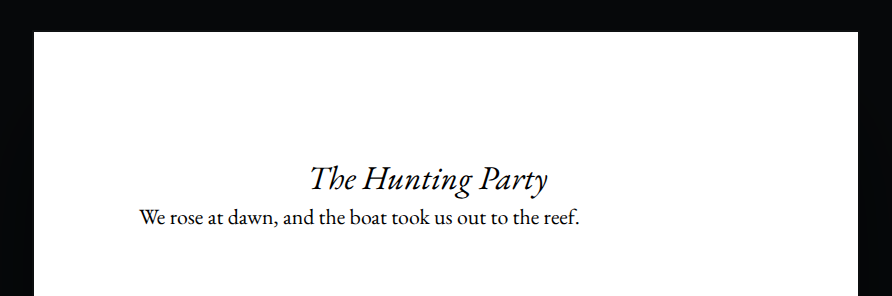
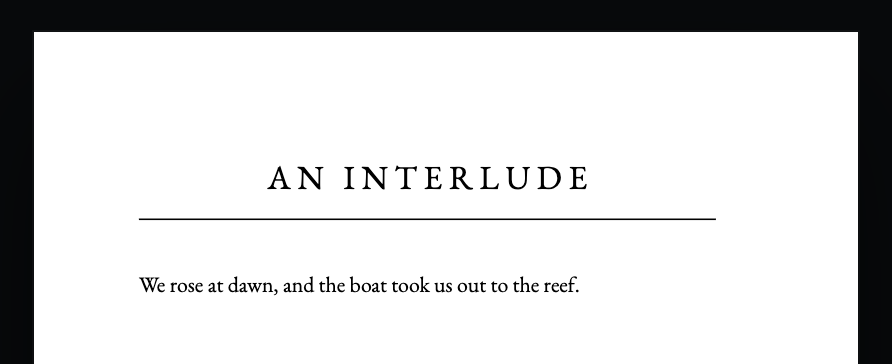
Rewrite the Markdown page in plain words
Each example now does what plain Markdown cannot: a ruled heading,
text that wraps around the shell, and small capitals. The breaks are
shown as written, with no picture.

Claude-Session: https://claude.ai/code/session_01PPTVmjWYWe5YnWoj3FHzSy

diff --git a/e2e/shots.spec.ts b/e2e/shots.spec.ts
@@ -1206,19 +1206,17 @@ test("the book note picture is the sample book's note open as its page", async (
 /** The folder the Markdown page's examples are written in, as a note and its CSS. */
 const EXAMPLES = path.resolve(fileURLToPath(import.meta.url), "../../site/src/marks");
 
-/**
- * Each example the Markdown page shows, by the words each page of its
- * picture opens on. The page break is the one example set on two pages.
- */
-const SET_ON: Record<string, string[]> = {
-  "attribute-line": ["This morning"],
-  "heading-attributes": ["The Hunting Party"],
-  "image-attributes": ["The Nautilus, as"],
-  span: ["We were on board"],
-  "setext-heading": ["The Coral Kingdom"],
-  "page-break": ["The night fell", "At dawn"],
-  "column-break": ["Above the waterline"],
+/** Each example the Markdown page pictures, by the words its page opens on. */
+const SET_ON: Record<string, string> = {
+  "attribute-line": "This morning",
+  "heading-attributes": "An Interlude",
+  "image-attributes": "The shell of",
+  span: "The Nautilus lay",
+  "setext-heading": "The Coral Kingdom",
 };
+
+/** The examples the page shows as written only, since a break is plainer said than pictured. */
+const UNPICTURED = ["column-break", "page-break"];
 
 /** The folder the examples and the books that set them go into. */
 const MARKED = "Marks";
@@ -1230,8 +1228,8 @@ function markedAt(name: string): string {
 
 /**
  * The example books' design, which is the sample book's text with no
- * heads. A title page comes first, so the chapter opens on a left-hand
- * page and a page break lands on the page facing it.
+ * heads. A title page comes first, so the book has a page before the
+ * chapter to turn from.
  */
 const MARKED_DESIGN = [
   "orca-book: 1",
@@ -1310,9 +1308,9 @@ test("the Markdown pictures are each example set on its own page", async ({ site
         : undefined,
     })),
   );
-  // Every example the page can show has a picture.
+  // Every example the page shows has a picture, or is said to have none.
   expect(written.filter((file) => file.endsWith(".md")).sort()).toEqual(
-    Object.keys(SET_ON).map((name) => `${name}.md`).sort(),
+    [...Object.keys(SET_ON), ...UNPICTURED].map((name) => `${name}.md`).sort(),
   );
 
   // A preview does not follow a book note written from outside the
@@ -1346,12 +1344,12 @@ test("the Markdown pictures are each example set on its own page", async ({ site
     await site.obsidian.collapse("right");
     await site.book.show("Spread", "spread");
     await site.book.choose(example.name);
-    const pages = (SET_ON[example.name] ?? []).map((words) =>
-      site.book.sheets.filter({
-        has: site.obsidian.page.locator("text[data-selection-line]", { hasText: words }),
+    const page = site.book.sheets.filter({
+      has: site.obsidian.page.locator("text[data-selection-line]", {
+        hasText: SET_ON[example.name] ?? "",
       }),
-    );
-    for (const page of pages) await expect(page).toBeVisible();
+    });
+    await expect(page).toBeVisible();
     // A spread opens with the first page alone on the right, so the
     // pane is settled once it has turned to the chapter.
     await settled(site.book);
@@ -1360,15 +1358,11 @@ test("the Markdown pictures are each example set on its own page", async ({ site
       await site.paint(scheme);
       await settled(site.book);
       await site.obsidian.still();
-      // The picture is the top of each page, down to the last thing the
+      // The picture is the top of the page, down to the last thing the
       // example set there.
-      const boxes = await Promise.all(
-        pages.map(async (page) => {
-          const sheet = await measured(page);
-          return { ...sheet, height: (await footOf(page, example.note)) + PAD - sheet.y };
-        }),
-      );
-      const clip = await around(site, boxes, PAD);
+      const sheet = await measured(page);
+      const height = (await footOf(page, example.note)) + PAD - sheet.y;
+      const clip = await around(site, [{ ...sheet, height }], PAD);
       await expect(site.obsidian.page).toHaveScreenshot(
         `mark-${example.name}-${scheme}.png`,
         { clip },

diff --git a/site/src/marks/heading-attributes.css b/site/src/marks/heading-attributes.css
@@ -1,3 +1,8 @@
 h1.interlude {
-  font-style: italic;
+  font-weight: normal;
+  letter-spacing: 0.2em;
+  text-transform: uppercase;
+  border-bottom: thin solid;
+  padding-bottom: 0.5em;
+  margin-bottom: 1.5em;
 }

diff --git a/site/src/marks/image-attributes.css b/site/src/marks/image-attributes.css
@@ -1,3 +1,9 @@
-.plate {
-  width: 50%;
+.shell {
+  position: absolute;
+  top: 0;
+  right: 0;
+  width: 45%;
+  wrap-flow: start;
+  shape-outside: auto;
+  shape-margin: 9pt;
 }

diff --git a/site/src/marks/span.css b/site/src/marks/span.css
@@ -1,3 +1,4 @@
-.ship {
-  font-style: italic;
+.lead-in {
+  font-variant-caps: small-caps;
+  letter-spacing: 0.05em;
 }

diff --git a/site/src/marks/image-attributes.md b/site/src/marks/image-attributes.md
@@ -1,3 +1,3 @@
-![[nautilus.png]]{.plate}
+![[nautilus.png]]{.shell}
 
-The Nautilus, as her engineer drew her.
+The shell of the nautilus is divided into chambers, and the animal lives only in the last and largest of them. As it grows, it builds a new chamber and closes the old one behind it with a wall of pearl. A thin tube runs back through every wall, and through it the animal fills the empty chambers with gas or with water. So it rises toward the surface or sinks to the floor of the sea, as it chooses. Captain Nemo named his ship for this animal, and his ship rises and sinks in the same way.

diff --git a/site/src/marks/span.md b/site/src/marks/span.md
@@ -1,1 +1,1 @@
-We were on board the [Nautilus]{.ship}, and she lay still on the reef.
+[The Nautilus lay still]{.lead-in} on the reef, and the sea around her was as smooth as glass. Through the open panels of the saloon we watched the fish pass in the light of her lantern.

diff --git a/site/src/marks/setext-heading.md b/site/src/marks/setext-heading.md
@@ -3,7 +3,8 @@ The Coral Kingdom
 
 We walked for an hour over the floor of the sea.
 
-A Grave in the Coral
---------------------
+A Grave
+in the Coral
+------------
 
 The men laid their comrade there.

diff --git a/site/src/marks/heading-attributes.md b/site/src/marks/heading-attributes.md
@@ -1,3 +1,3 @@
-# The Hunting Party {.interlude}
+# An Interlude {.interlude}
 
 We rose at dawn, and the boat took us out to the reef.
